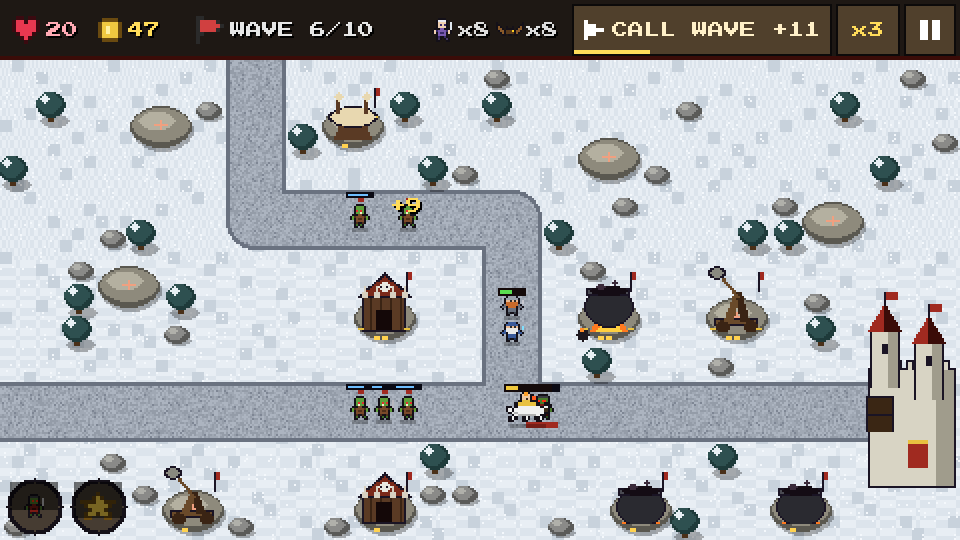
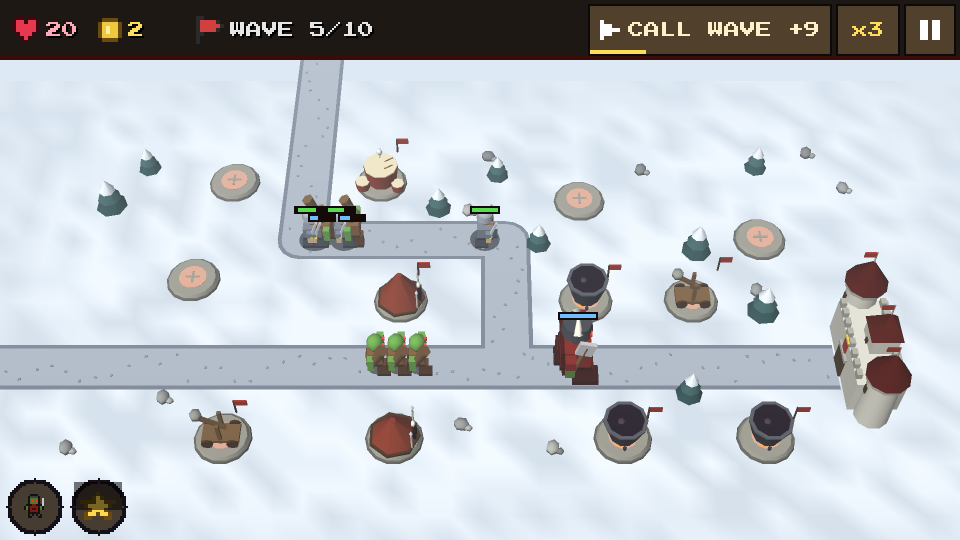
3D: browser fix (32-bit crc32), site pictures from 3D frames, notes

diff --git a/games/elfs-orcs-tower-defense/site/index.html b/games/elfs-orcs-tower-defense/site/index.html
@@ -104,13 +104,13 @@ footer { border-top: 1px solid var(--line); margin-top: 24px; padding: 18px 0 32
     <h1>Elfs &amp; Orcs Tower Defense</h1>
     <p class="tag">Five peoples. One war. Pick your banner, hold your ground, and decide who rules the realm.</p>
     <a class="play" href="play/">Play now - free</a>
-    <div class="hero"><img src="images/title.png" width="960" height="540" alt="The title screen of Elfs &amp; Orcs Tower Defense: the road, the stone platforms, towers of the elves and the orc horde marching"></div>
+    <div class="hero"><img src="images/battle-thornvale.png" width="960" height="540" alt="Elves defending Thornvale Pass in 3D: archer spires, a moon sanctuary and songmages along the road, with the orc horde coming and the castle at the end"></div>
   </div>
 </header>
 
 <main class="wrap">
   <section id="game">
-    <h2>A fantasy tower defense for your browser</h2>
+    <h2>A fantasy tower defense in 3D, in your browser</h2>
     <p>Enemies follow the road to your bastion. You build on the stone platforms beside it: towers that shoot, soldiers that hold the road, walls, traps, drums and mines. Every wave is announced, every people has an answer to every threat, and none of them is the same. Call the next wave early for bonus gold, speed the game up to x3, and keep the bastion's lives: three stars for a flawless defense.</p>
     <p>It runs in the browser on desktop and phone, with mouse, touch, keyboard or gamepad, and it can be installed to play offline.</p>
     <p><a class="play small" href="play/">Start playing</a></p>

diff --git a/games/elfs-orcs-tower-defense/tools/site/make.php b/games/elfs-orcs-tower-defense/tools/site/make.php
@@ -42,12 +42,10 @@ foreach ($names as $name) {
     save(load("$shots/site-$name.png"), "$images/$name.png");
 }
 
-$title = load("$shots/site-title.png");
-// the picture shared by social networks: 1200 x 630 from the title (x1.25, 630 rows kept)
-$og = crop($title, 0, 17, 960, 504, 1200, 630);
-save($og, "$images/og.png");
-// the directory's picture (16:9) and the page icon (the castle)
-save($title, "$game/assets/thumbnail.png");
-$castleFrame = load("$shots/site-battle-thornvale.png");
-save(crop($castleFrame, 830, 320, 130, 130, 64, 64), "$images/favicon.png");
-save(crop($castleFrame, 830, 320, 130, 130, 256, 256), "$game/assets/icon.png");
+// the picture shared by social networks (1200 x 630: the battle, x1.25, 630 rows kept) and the directory's picture (16:9)
+$battle = load("$shots/site-battle-thornvale.png");
+save(crop($battle, 0, 22, 960, 504, 1200, 630), "$images/og.png");
+save($battle, "$game/assets/thumbnail.png");
+// the page icon: the castle of the side, seen from above (a square cut of the right edge of the picture)
+save(crop($battle, 790, 250, 170, 170, 64, 64), "$images/favicon.png");
+save(crop($battle, 790, 250, 170, 170, 256, 256), "$game/assets/icon.png");

diff --git a/games/elfs-orcs-tower-defense/src/View3d/MapModel.php b/games/elfs-orcs-tower-defense/src/View3d/MapModel.php
@@ -85,7 +85,8 @@ final class MapModel
                 if ($char === '.' || isset($blocked["$tx,$tz"]) || $nearRoad($cx, $cz) < 20) {
                     continue;
                 }
-                $h = crc32("s$tx;$tz");
+                // 16 bits: crc32() is signed (and its products overflow) in the browser's 32-bit PHP
+                $h = crc32("s$tx;$tz") & 0xffff;
                 $ox = ($h & 7) - 3.5;
                 $oz = (($h >> 3) & 7) - 3.5;
                 if ($char === 't') {
@@ -153,7 +154,7 @@ final class MapModel
             }
             // pebbles on the road
             for ($d = 6.0; $d < $len; $d += 9.0) {
-                $h = crc32("p$ax,$az,$d");
+                $h = crc32("p$ax,$az,$d") & 0xffff;
                 $off = (($h & 15) / 15 - 0.5) * 2 * (self::ROAD - 3);
                 $m->box([$ax + $dx / $len * $d + $nx * $off, 0.45, $az + $dz / $len * $d + $nz * $off], [1.8, 0.5, 1.3], $road[4], [0.0, ($h >> 4) / 7, 0.0]);
             }

diff --git a/games/elfs-orcs-tower-defense/AGENTS.md b/games/elfs-orcs-tower-defense/AGENTS.md
@@ -24,8 +24,23 @@ won: enemies' health x1.5, gold x0.85), a **hero** per side (sent anywhere on th
 itself) and a **side power** with a cooldown (cast where you point), 14 languages. **Milestone 4** is done except
 publishing (only when the user asks): the bot wins all 30 map x side combinations (tests/CampaignTest.php), hard mode
 stays winnable, `site/` (the game's home page) and `assets/thumbnail.png` / `assets/icon.png` exist, the remote build
-(`bin/jumphp build:remote`) was checked in Chrome. The graphics are placeholders: the user wants them redone in 3D or
-semi-3D (not pixel art) after this: keep drawing behind `src/Ui/Sprites.php`.
+(`bin/jumphp build:remote`) was checked in Chrome.
+
+**The battle is drawn in 3D** (the user does not want pixel art): a WebGL layer under the 2D scene (`$engine->gl()`,
+layer 'below', 'native' resolution, key colour magenta). Pure classes in `src/View3d/` (excluded from the container,
+unit-tested by `tests/ViewTest.php`): `Mesh` (boxes, cylinders, balls, quads -> one buffer), `Units` (every creature, 2
+walking frames), `Towers` (20 towers by level / specialization), `Props` (shots, walls, traps, disc / ring / ball),
+`MapModel` (ground, roads, scenery, platforms, castle, one mesh per map and side), `Rig` (the camera: fits every platform
+under the top bar, `screen()` / `world()` project both ways), `FlatView` (the 2D fallback's projection). `src/Ui/World3d.php`
+holds the GL side (one lit shader with fog, a model cache, one draw call per object). `PlayScene` reads and places its 2D
+overlays (ring menu, bars, numbers, HUD) through `$this->cam`; `render3d()` draws the world, `render()` keeps the flat 2D
+drawing when WebGL is missing or the param `view: flat` is given (the long logic tests use it: Mesa's software GL is slow).
+Things to remember: over the 3D (keyed by magenta) 2D overlays must be opaque, or pure black with alpha (it darkens the 3D;
+any other translucent colour is tinted by the key); `crc32()` is signed and products overflow in the browser's 32-bit PHP
+(mask to 16 bits); the 16-bit depth buffer needs a far near plane (`Rig::NEAR`); `bin/jumphp test <game> --filter X` runs
+only phpunit (with OpenGL on Xvfb when the game uses it).
+Still pixel art (to redo): the menus' background maps (`Sprites::drawMap`), the ring menu's tower icons, the hero / power
+buttons, the HUD icons and the font (Press Start 2P).
 
 Site pictures: `tests/SiteShotsTest.php` photographs the game (var/screenshots/tests/site-*.png), then
 `bin/jumphp php games/elfs-orcs-tower-defense tools/site/make.php` cuts them into site/images/, the thumbnail and the
